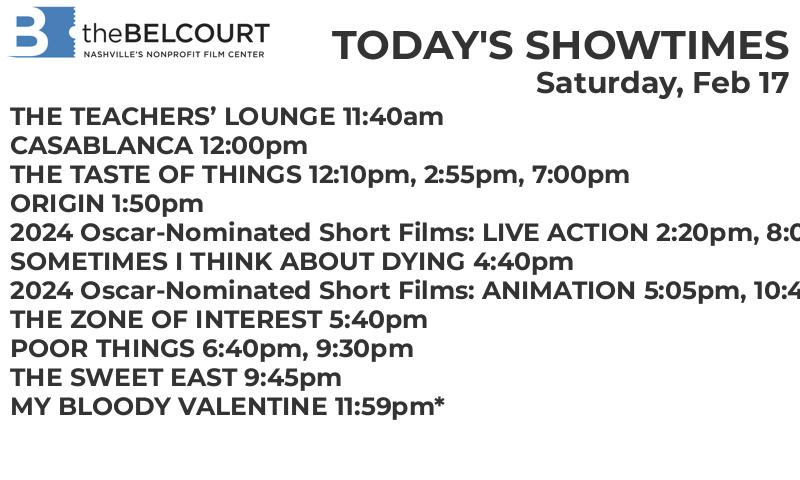
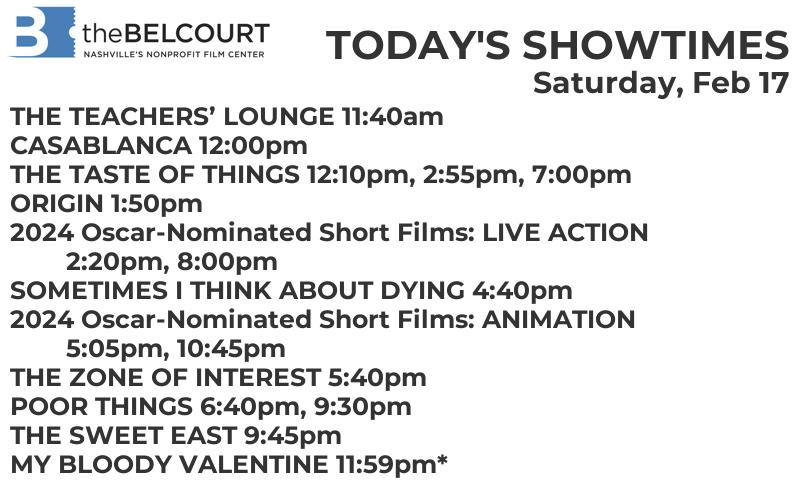
Insert new lines into strings if they're too long

diff --git a/belcourt/belcourt_generate_image.py b/belcourt/belcourt_generate_image.py
@@ -8,6 +8,23 @@
 from PIL import Image, ImageDraw, ImageFont, ImageOps
 import json
 
+#create function for inserting indented new lines in a long string without breaking up words
+def insert_newlines(string, every=64):
+    lines = []
+    while string:
+        if len(string) <= every:
+            lines.append(string)
+            break
+        else:
+            space_position = string.rfind(' ', 0, every)
+            if space_position >= 0:
+                end = space_position
+            else:
+                end = every
+            lines.append(string[:end])
+            string = string[end:].lstrip()
+    return '\n        '.join(lines)
+
 #read showtime info
 with open("output_showtimes.json", "rt") as f:
     showtimes = json.load(f)
@@ -68,7 +85,16 @@ for i in range(len(showtimes[0]['shows'])):
     this_show = showtimes[0]['shows'][str(i)]['show'][0]
     this_showtimes = ', '.join(showtimes[0]['shows'][str(i)]['showtimes'])
 
-    showtime_string = showtime_string + this_show + ' ' + this_showtimes + '\n'
+    #concatenate this show with its showtimes into one string
+    this_showtime_string = this_show + ' ' + this_showtimes + '\n'
+
+    #insert newlines into this showtime string
+    this_showtime_string = insert_newlines(this_showtime_string, every=50)
+
+    #add this showtime string to the full showtime string
+    showtime_string = showtime_string + this_showtime_string
+
+    
 
 imgDraw.text((10, 100), anchor = 'la', text = showtime_string, font=font_show, fill=(51, 51, 51))
 
